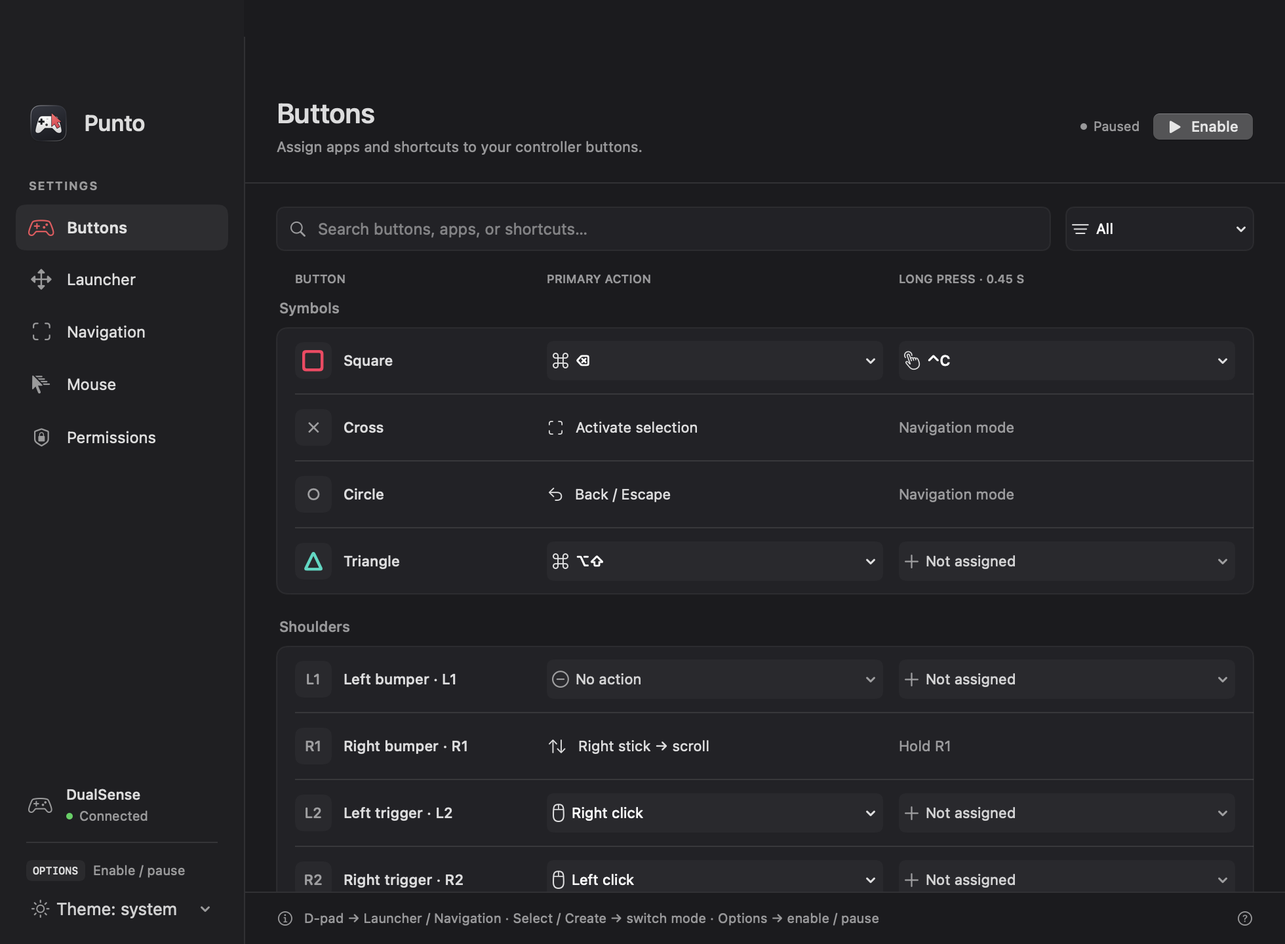
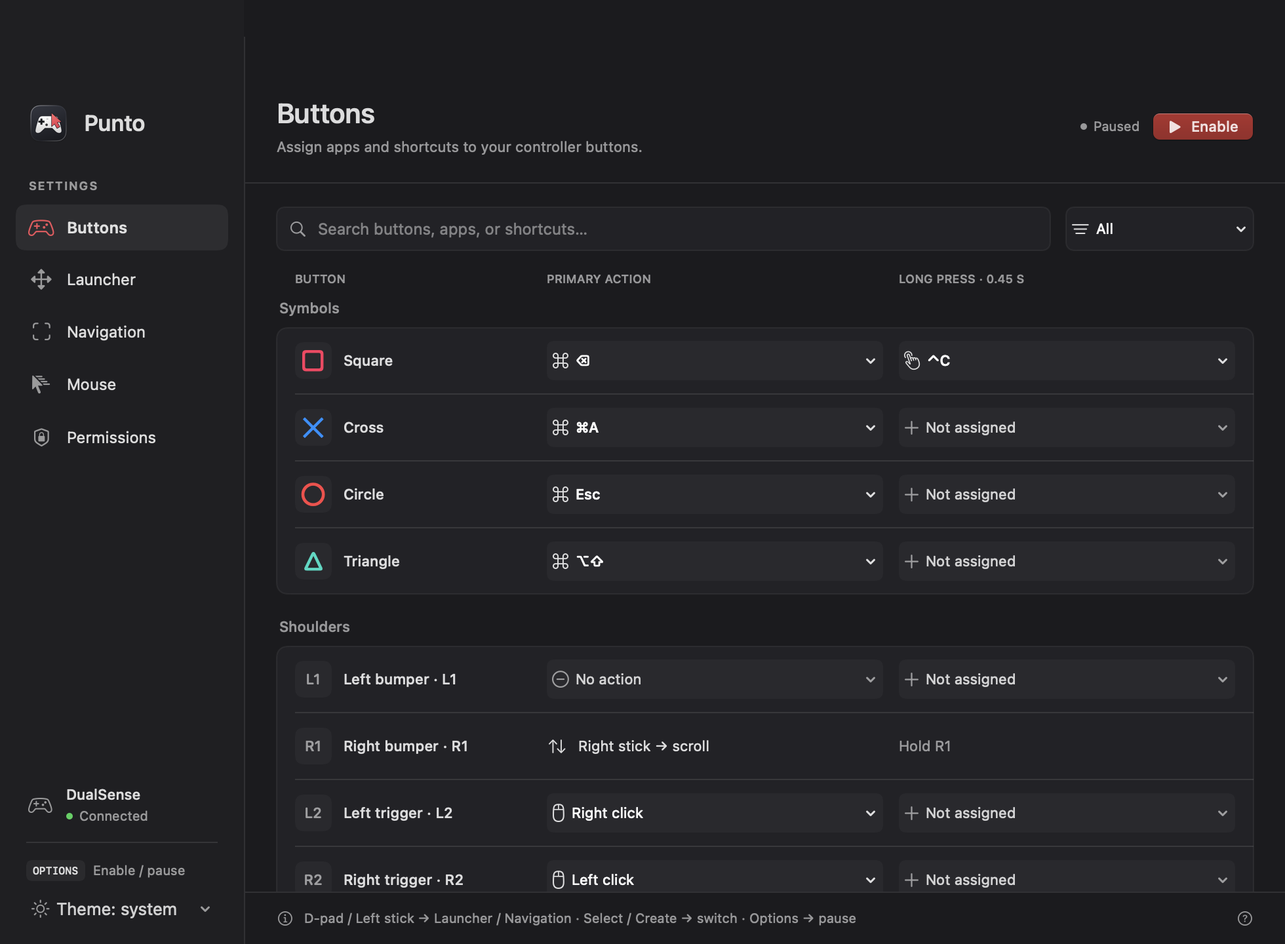
Add left-stick launcher and UI navigation with safe repeat handling

diff --git a/UI.swift b/UI.swift
@@ -25,7 +25,7 @@ private enum Page: String, CaseIterable, Identifiable {
         switch self {
         case .buttons: return "Assign apps and shortcuts to your controller buttons."
         case .launcher: return "Four directions. Two apps per direction."
-        case .navigation: return "Select app controls with the D-pad, without aiming the mouse."
+        case .navigation: return "Select app controls with the D-pad or left stick, without aiming the mouse."
         case .mouse: return "Customize cursor movement and scrolling."
         case .permissions: return "Manage Punto’s access to your Mac."
         }
@@ -322,7 +322,7 @@ private struct SettingsView: View {
             Divider()
             HStack(spacing: 8) {
                 Image(systemName: "info.circle").foregroundColor(.secondary)
-                Text("D-pad → Launcher / Navigation · Select / Create → switch mode · Options → enable / pause")
+                Text("D-pad / Left stick → Launcher / Navigation · Select / Create → switch · Options → pause")
                     .font(.system(size: 10)).foregroundColor(.secondary)
                 Spacer(minLength: 0)
                 Button { showHelp.toggle() } label: { Image(systemName: "questionmark.circle").foregroundColor(.secondary) }.buttonStyle(.plain)
@@ -402,7 +402,7 @@ private struct SettingsView: View {
     }
     private var launcherSettings: some View {
         VStack(alignment: .leading, spacing: 20) {
-            heading("Directional navigation", detail: "Press a direction to open an app. Press it again while the overlay is visible to open the second.")
+            heading("Directional navigation", detail: "Use the D-pad or left stick to open an app. Repeat the same direction while the overlay is visible to open the second.")
             HStack(spacing: 18) {
                 Label("Instant launch · no confirmation", systemImage: "bolt.fill")
                 Label("○ dismisses the overlay", systemImage: "xmark.circle")
@@ -441,7 +441,7 @@ private struct SettingsView: View {
     }
     private var navigationSettings: some View {
         VStack(alignment: .leading, spacing: 16) {
-            heading("D-pad behavior", detail: "Press Select / Create to switch modes while controller input is enabled.")
+            heading("Directional controls", detail: "Press Select / Create to switch modes while controller input is enabled.")
             VStack(alignment: .leading, spacing: 12) {
                 Picker("Mode", selection: Binding(get: { model.uiNavigationEnabled }, set: { model.controller.setUINavigationEnabled($0); model.refresh() })) {
                     Text("App launcher").tag(false)
@@ -452,12 +452,14 @@ private struct SettingsView: View {
             }.padding(16).card()
             heading("Navigate the active window", detail: "Uses macOS Accessibility. No cursor movement or coordinate clicks.")
             VStack(alignment: .leading, spacing: 14) {
-                instruction("arrow.up.and.down.and.arrow.left.and.right", title: "D-pad selects controls", detail: "The first press selects the focused or first available control. Further presses select the nearest control in that direction. A coral border shows your selection.")
+                instruction("arrow.up.and.down.and.arrow.left.and.right", title: "D-pad or left stick selects controls", detail: "Press a direction or tilt the left stick to select a control. Hold the stick to keep moving through controls. A coral border shows your selection.")
                 Divider()
                 instruction("xmark.circle", title: "✕ activates the selection", detail: "Press a button, select a tab, or focus an editable field using its native Accessibility action.")
                 Divider()
                 instruction("arrow.uturn.backward", title: "○ goes back", detail: "Requests the native Cancel action, or sends Escape if the app does not support it.")
             }.padding(16).card()
+            Text("Left stick: tilt beyond 55% to navigate; return near the center to reset. UI navigation repeats after 0.38 seconds, then every 0.18 seconds. The launcher opens only once per tilt. L3 remains customizable; the right stick still controls the mouse.")
+                .font(.system(size: 11)).foregroundColor(.secondary)
             heading("Compatibility", detail: "Experimental: apps must expose their controls through Accessibility.")
             Text("Only visible, enabled controls in the active window, sheet, or focused menu are considered. Custom canvases and some web content may not expose enough information. The right stick, touchpad, and triggers remain available as a mouse fallback. Text entry and detailed slider editing still require the keyboard or mouse.")
                 .font(.system(size: 12)).foregroundColor(.secondary)

diff --git a/tests/navigation-ui.m b/tests/navigation-ui.m
@@ -11,6 +11,7 @@
 @end
 @implementation NavigationSpy
 - (void)move:(NSInteger)direction {self.moves++;self.direction=direction;}
+- (void)moveFromStick:(NSInteger)direction {[self move:direction];}
 - (void)activateSelection {self.activations++;}
 - (void)goBack {self.backs++;}
 @end
@@ -31,20 +32,29 @@ int main(void){@autoreleasepool{
     [app setUINavigationEnabled:YES];
     for(int i=0;i<4;i++){[app handleButton:15+i pressed:YES];assert(spy.direction==i);[app handleButton:15+i pressed:NO];}
     assert(spy.moves==4&&!app.launcherPanel.isVisible&&!app.launchedPath);
+    for(int i=0;i<4;i++){[app navigateStickDirection:i];assert(spy.direction==i);}
+    assert(spy.moves==8&&!app.launchedPath);
     [app handleButton:1 pressed:YES];[app handleButton:1 pressed:NO];assert(spy.activations==1);
     [app handleButton:2 pressed:YES];[app handleButton:2 pressed:NO];assert(spy.backs==1&&!app.launchedPath);
     [app handleButton:5 pressed:YES];assert(input_scroll_active());[app handleButton:5 pressed:NO];
     [app handleButton:8 pressed:YES];assert(!app.navigationMode&&!input_scroll_active());
     [app handleButton:8 pressed:NO];assert(!app.navigationMode);
     [app handleButton:1 pressed:YES];assert([app.launchedPath isEqual:@"cross-app"]);
-    [app handleButton:15 pressed:YES];assert(app.launcherPanel.isVisible&&[app.launchedPath isEqual:@"demo-app"]);
+    [app navigateStickDirection:0];assert(app.launcherPanel.isVisible&&[app.launchedPath isEqual:@"demo-app"]);
     [app handleButton:8 pressed:YES];assert(app.navigationMode&&!app.launcherPanel.isVisible);
     assert([defaults integerForKey:@"action8"]==11&&[[defaults stringForKey:@"app8"] isEqual:@"old-select-app"]);
     assert(![app validButton:8]&&[app validButton:13]);
     [app handleButton:13 pressed:YES];assert([app.launchedPath isEqual:@"touchpad-app"]&&app.navigationMode);
     input_enable(false);assert(!spy.active);
+    [app navigateStickDirection:0];assert(spy.moves==8);
+    // Coalesce analog repeats without discarding digital presses or activation.
+    PuntoUINavigation *queueTest=[PuntoUINavigation new];queueTest.active=YES;[queueTest setValue:@YES forKey:@"busy"];
+    NSMutableArray<NSNumber *> *commands=[queueTest valueForKey:@"commands"];[commands addObjectsFromArray:@[@0,@4]];
+    [queueTest moveFromStick:1];[queueTest moveFromStick:2];assert(commands.count==3&&commands.lastObject.intValue==12);
+    [queueTest stopStickNavigation];assert(([commands isEqual:@[@0,@4]]));
+    queueTest.active=NO;assert(commands.count==0);
     assert([[app settingsSnapshot][@"uiNavigation"] boolValue]);
     input_stop();input_button_handler(NULL);currentApp=nil;
     [defaults setVolatileDomain:original?:@{} forName:NSArgumentDomain];
-    puts("PASS: four-direction routing, activation/back, no shortcut leakage, Select/Create mode switching and customizable touchpad, launcher restoration, pause and preserved assignments");
+    puts("PASS: D-pad/left-stick routing, repeat coalescing, activation/back, no shortcut leakage, Select/Create mode switching and customizable touchpad, launcher restoration, pause and preserved assignments");
 }return 0;}

diff --git a/main.m b/main.m
@@ -8,11 +8,13 @@
 #import "longpress.h"
 #import "launcher.h"
 #import "UINavigation.h"
+#import "stick.h"
 #import "UIController.h"
 #import "build/PadMacUI-Swift.h"
 
 @interface App : NSObject <NSApplicationDelegate,NSWindowDelegate,PadMacUIController> {
     LauncherState _launcher;
+    StickNavigation _leftStick;
 }
 @property PuntoUINavigation *uiNavigation;
 @property BOOL navigationMode;
@@ -42,7 +44,7 @@ static void hold_event(int index,HoldEvent event){[currentApp holdEvent:index ev
     (void)note;currentApp=self;
     NSUserDefaults *d=NSUserDefaults.standardUserDefaults;PadMacMigrateShortcuts(d);
     [d registerDefaults:@{@"speed":@1100,@"zone":@0.12,@"scrollSpeed":@900}];
-    launcher_reset(&_launcher);
+    launcher_reset(&_launcher);stick_navigation_reset(&_leftStick);
     self.navigationMode=[d boolForKey:@"uiNavigation"];
     self.uiNavigation=[PuntoUINavigation new];
     __weak App *weakSelf=self;
@@ -142,6 +144,11 @@ static void hold_event(int index,HoldEvent event){[currentApp holdEvent:index ev
     if(![self validButton:index])return;input_enable(false);
     [NSUserDefaults.standardUserDefaults removeObjectForKey:[self holdKey:index]];
 }
+- (void)navigateStickDirection:(NSInteger)direction {
+    if(direction<0||direction>3||!input_enabled())return;
+    if(self.navigationMode)[self.uiNavigation moveFromStick:direction];
+    else [self selectLauncherDirection:direction];
+}
 - (void)saveNavigationMode {[NSUserDefaults.standardUserDefaults setBool:self.navigationMode forKey:@"uiNavigation"];}
 - (void)setUINavigationEnabled:(BOOL)enabled {
     input_release_actions();[self hideLauncher];
@@ -149,7 +156,7 @@ static void hold_event(int index,HoldEvent event){[currentApp holdEvent:index ev
     self.uiNavigation.active=enabled&&input_enabled()&&AXIsProcessTrusted();
 }
 - (BOOL)handleButton:(int)index pressed:(BOOL)pressed {
-    if(index<0){longpress_cancel(hold_event);[self hideLauncher];self.uiNavigation.active=NO;return YES;}
+    if(index<0){longpress_cancel(hold_event);[self hideLauncher];self.uiNavigation.active=NO;stick_navigation_reset(&_leftStick);return YES;}
     if(index==8){if(pressed)[self setUINavigationEnabled:!self.navigationMode];return YES;}
     if(self.navigationMode&&(index>=15||index==1||index==2)){
         self.uiNavigation.active=input_enabled()&&AXIsProcessTrusted();
@@ -254,6 +261,13 @@ static void hold_event(int index,HoldEvent event){[currentApp holdEvent:index ev
     input_tick(dt,self.speed,self.deadzone);
     self.uiNavigation.active=self.navigationMode&&input_enabled()&&trusted;
     [self.uiNavigation poll];
+    if(input_enabled()){
+        double horizontal=0,vertical=0;input_left_stick(&horizontal,&vertical);
+        int previous=_leftStick.direction;
+        int direction=stick_navigation_step(&_leftStick,horizontal,vertical,now,self.navigationMode);
+        if(previous>=0&&_leftStick.direction<0)[self.uiNavigation stopStickNavigation];
+        if(direction>=0)[self navigateStickDirection:direction];
+    }else stick_navigation_reset(&_leftStick);
 }
 - (void)toggleControl {
     if(input_enabled()){input_enable(false);return;}

diff --git a/input.c b/input.c
@@ -6,7 +6,7 @@
 
 static IOHIDManagerRef manager;
 static IOHIDDeviceRef active;
-static double x, y;
+static double x,y,leftX,leftY;
 static uint8_t reportBuffer[512];
 static bool touching;
 static int touchX, touchY, touchID;
@@ -48,7 +48,7 @@ void input_release_actions(void) {
     held[0]=held[1]=false;touching=false;
 }
 void input_enable(bool on) {
-    input_release_actions();pointerSuppressed=false;enabled=on;x=y=0;
+    input_release_actions();pointerSuppressed=false;enabled=on;x=y=leftX=leftY=0;
 }
 void input_mapping(int i,int key,unsigned long long mods) {if(i>=0&&i<4){keys[i]=key;flags[i]=mods;}}
 void input_modifier_shortcut(unsigned long long modifiers){
@@ -107,11 +107,14 @@ static void value(void *ctx,IOReturn result,void *sender,IOHIDValueRef v) {
         button(17,direction==3||direction==4||direction==5); // Down
         button(18,direction==5||direction==6||direction==7); // Left
     }
-    if(page==kHIDPage_GenericDesktop && (usage==kHIDUsage_GD_Z||usage==kHIDUsage_GD_Rz)){
+    if(page==kHIDPage_GenericDesktop && (usage==kHIDUsage_GD_X||usage==kHIDUsage_GD_Y||usage==kHIDUsage_GD_Z||usage==kHIDUsage_GD_Rz)){
         double min=IOHIDElementGetLogicalMin(e),max=IOHIDElementGetLogicalMax(e);
         if(max<=min)return;
-        double a=2.0*(n-min)/(max-min)-1;
-        if(usage==kHIDUsage_GD_Z)x=a;else y=a;
+        double a=fmax(-1,fmin(1,2.0*(n-min)/(max-min)-1));
+        if(usage==kHIDUsage_GD_X)leftX=a;
+        else if(usage==kHIDUsage_GD_Y)leftY=a;
+        else if(usage==kHIDUsage_GD_Z)x=a;
+        else y=a;
     }
 }
 // DualSense USB (0x01) and full Bluetooth (0x31) input reports.
@@ -136,7 +139,7 @@ static void report(void *ctx, IOReturn result, void *sender,
 }
 static void added(void *ctx,IOReturn result,void *sender,IOHIDDeviceRef device){
     (void)ctx;(void)sender;if(result==kIOReturnSuccess&&!active){
-        active=device;x=y=0;touching=false;
+        active=device;x=y=leftX=leftY=0;touching=false;
         IOHIDDeviceRegisterInputReportCallback(device,reportBuffer,sizeof(reportBuffer),report,device);
     }
 }
@@ -195,6 +198,10 @@ static void move_pointer(double dx,double dy){
     CGEventRef e=CGEventCreateMouseEvent(NULL,type,p,held[0]?kCGMouseButtonLeft:held[1]?kCGMouseButtonRight:kCGMouseButtonLeft);
     if(e){CGEventPost(kCGHIDEventTap,e);CFRelease(e);}
 #endif
+}
+void input_left_stick(double *horizontal,double *vertical){
+    if(horizontal)*horizontal=enabled&&active?leftX:0;
+    if(vertical)*vertical=enabled&&active?leftY:0;
 }
 bool input_connected(void){return active!=NULL;}
 bool input_enabled(void){return enabled;}

diff --git a/UINavigation.m b/UINavigation.m
@@ -87,7 +87,7 @@ static id focusedRoot(AXUIElementRef app,id *window,id *focused){
     if(atomic_exchange(&_active,active)==active)return;
     self.generation++;[self.commands removeAllObjects];[self clearSelection];
     self.status=active?@"Press a direction to select a control.":@"UI navigation is paused.";
-    if(active)[self showMessage:@"UI navigation · D-pad selects · ✕ activates · ○ goes back"];
+    if(active)[self showMessage:@"D-pad / Left stick selects · ✕ activates · ○ goes back"];
 }
 - (void)showMessage:(NSString *)message{
     NSTextField *label=[NSTextField labelWithString:message];label.frame=NSMakeRect(16,10,448,36);
@@ -101,6 +101,15 @@ static id focusedRoot(AXUIElementRef app,id *window,id *focused){
     dispatch_after(dispatch_time(DISPATCH_TIME_NOW,2500*NSEC_PER_MSEC),dispatch_get_main_queue(),^{if(version==self.messageVersion)[self.messagePanel orderOut:nil];});
 }
 - (void)move:(NSInteger)direction{if(direction>=0&&direction<4)[self enqueue:direction];}
+- (void)stopStickNavigation{
+    for(NSInteger i=(NSInteger)self.commands.count-1;i>=0;i--)if(self.commands[i].integerValue>=10)[self.commands removeObjectAtIndex:(NSUInteger)i];
+}
+- (void)moveFromStick:(NSInteger)direction{
+    if(!self.active||direction<0||direction>3)return;
+    [self stopStickNavigation];
+    if(self.busy){if(self.commands.count<8)[self.commands addObject:@(10+direction)];}
+    else [self request:direction];
+}
 - (void)activateSelection{[self enqueue:4];}
 - (void)goBack{[self enqueue:5];}
 - (void)enqueue:(NSInteger)command{
@@ -110,7 +119,7 @@ static id focusedRoot(AXUIElementRef app,id *window,id *focused){
 }
 - (void)drain{
     if(!self.active||self.busy||!self.commands.count)return;
-    NSInteger command=self.commands.firstObject.integerValue;[self.commands removeObjectAtIndex:0];[self request:command];
+    NSInteger command=self.commands.firstObject.integerValue;[self.commands removeObjectAtIndex:0];[self request:command>=10?command-10:command];
 }
 - (void)poll{
     double now=NSProcessInfo.processInfo.systemUptime;

diff --git a/tests/scroll.c b/tests/scroll.c
@@ -7,6 +7,10 @@ void input_test_scroll(int vertical,int horizontal){scrollEvents++;totalVertical
 void input_test_pointer(double dx,double dy){assert(dx!=0||dy!=0);pointerEvents++;}
 int main(void){
     active=(IOHIDDeviceRef)(uintptr_t)1;input_enable(true);
+    double horizontal=0,vertical=0;leftX=0.9;leftY=-0.8;input_left_stick(&horizontal,&vertical);
+    assert(horizontal==0.9&&vertical==-0.8&&x==0&&y==0);
+    input_suppress_pointer(true);input_left_stick(&horizontal,&vertical);assert(horizontal==0.9&&vertical==-0.8);
+    input_suppress_pointer(false);input_left_stick(NULL,NULL);
     x=0;y=1;input_scroll_mode(true);assert(input_scroll_active());
     input_tick(1.0/60,1100,0.12);
     assert(scrollEvents==1&&totalVertical==-15&&totalHorizontal==0&&pointerEvents==0);
@@ -33,9 +37,11 @@ int main(void){
     input_tick(1.0/60,1100,0.12);assert(scrollEvents==previous&&!input_scroll_active());
     input_suppress_pointer(false);input_release_actions();assert(!input_scroll_active());
     input_scroll_mode(true);input_enable(false);assert(!input_scroll_active());
+    input_left_stick(&horizontal,&vertical);assert(horizontal==0&&vertical==0&&leftX==0&&leftY==0);
     input_scroll_mode(true);assert(!input_scroll_active());
     input_enable(true);input_scroll_mode(true);removed(NULL,0,NULL,active);assert(!input_scroll_active());
+    input_left_stick(&horizontal,&vertical);assert(horizontal==0&&vertical==0);
     input_stop();
-    puts("PASS: R1 scroll mode, vertical/horizontal directions, adjustable sensitivity, bounds, smooth fractions, deadzone, cursor restore, safety reset");
+    puts("PASS: independent left-stick axes and safety reset, R1 scroll mode, vertical/horizontal directions, adjustable sensitivity, bounds, smooth fractions, deadzone, cursor restore, safety reset");
     return 0;
 }

diff --git a/tests/stick.c b/tests/stick.c
@@ -1,0 +1,30 @@
+#include "../stick.h"
+#include <assert.h>
+#include <math.h>
+#include <stdio.h>
+int main(void){
+    StickNavigation s;stick_navigation_reset(&s);
+    assert(stick_navigation_step(&s,1,0,0,true)==-1); // Must recenter after reset.
+    assert(stick_navigation_step(&s,0,0,0,true)==-1);
+    assert(stick_navigation_step(&s,0.4,0,0.1,true)==-1);
+    assert(stick_navigation_step(&s,1,0,1,true)==1);
+    assert(stick_navigation_step(&s,1,0,1.37,true)==-1);
+    assert(stick_navigation_step(&s,1,0,1.39,true)==1);
+    assert(stick_navigation_step(&s,1,0,1.5,true)==-1);
+    assert(stick_navigation_step(&s,1,0,1.58,true)==1);
+    assert(stick_navigation_step(&s,0,1,1.6,true)==2);
+    assert(stick_navigation_step(&s,0.9,1,1.7,true)==-1); // Diagonal noise keeps the current sector.
+    assert(stick_navigation_step(&s,1,0.6,1.71,true)==1);
+    assert(stick_navigation_step(&s,0,-1,1.8,true)==0);
+    assert(stick_navigation_step(&s,-1,0,1.9,true)==3);
+    assert(stick_navigation_step(&s,0.2,0,2,true)==-1);
+    assert(stick_navigation_step(&s,0,-1,2.1,false)==0);
+    assert(stick_navigation_step(&s,0,-1,3,false)==-1);
+    assert(stick_navigation_step(&s,1,0,4,false)==-1); // Launcher requires another centered tilt.
+    assert(stick_navigation_step(&s,0,0,4.1,false)==-1);
+    assert(stick_navigation_step(&s,1,0,4.2,false)==1);
+    stick_navigation_reset(&s);assert(stick_navigation_step(&s,1,0,5,true)==-1);
+    assert(stick_navigation_step(&s,NAN,0,5,true)==-1&&!s.armed);
+    assert(stick_navigation_step(&s,0,0,INFINITY,true)==-1&&!s.armed);
+    puts("PASS: left-stick directions, drift threshold, sector hysteresis, delayed/repeated steps, launcher single-shot and reset recentering");
+}

diff --git a/stick.c b/stick.c
@@ -1,0 +1,23 @@
+#include "stick.h"
+#include <math.h>
+void stick_navigation_reset(StickNavigation *state){*state=(StickNavigation){false,-1,0};}
+int stick_navigation_step(StickNavigation *state,double x,double y,double now,bool repeat){
+    if(!isfinite(x)||!isfinite(y)||!isfinite(now)){stick_navigation_reset(state);return -1;}
+    double ax=fabs(x),ay=fabs(y),magnitude=fmax(ax,ay);
+    if(magnitude<=0.30){state->armed=true;state->direction=-1;state->repeatAt=0;return -1;}
+    if(!state->armed||magnitude<0.55)return -1;
+    int direction=ax>ay?(x>0?1:3):(y>0?2:0);
+    // Keep the current sector near diagonals to avoid noisy alternating steps.
+    if(state->direction>=0){
+        bool horizontal=state->direction==1||state->direction==3;
+        bool sameSign=horizontal?(state->direction==1?x>0:x<0):(state->direction==2?y>0:y<0);
+        if(sameSign&&(horizontal?ax:ay)>=(horizontal?ay:ax)*0.8)direction=state->direction;
+    }
+    if(direction!=state->direction){
+        state->direction=direction;state->repeatAt=now+0.38;
+        if(!repeat)state->armed=false;
+        return direction;
+    }
+    if(repeat&&now>=state->repeatAt){state->repeatAt=now+0.18;return direction;}
+    return -1;
+}

diff --git a/stick.h b/stick.h
@@ -1,0 +1,8 @@
+#ifndef PUNTO_STICK_H
+#define PUNTO_STICK_H
+#include <stdbool.h>
+typedef struct { bool armed; int direction; double repeatAt; } StickNavigation;
+void stick_navigation_reset(StickNavigation *state);
+// Normalized HID axes; returns up/right/down/left (0..3), or -1.
+int stick_navigation_step(StickNavigation *state,double x,double y,double now,bool repeat);
+#endif

diff --git a/UINavigation.h b/UINavigation.h
@@ -6,6 +6,8 @@ NS_ASSUME_NONNULL_BEGIN
 @property(atomic,getter=isActive) BOOL active;
 @property(nonatomic,copy,nullable) dispatch_block_t backFallback;
 - (void)move:(NSInteger)direction;
+- (void)moveFromStick:(NSInteger)direction;
+- (void)stopStickNavigation;
 - (void)activateSelection;
 - (void)goBack;
 - (void)poll;

diff --git a/input.h b/input.h
@@ -3,6 +3,7 @@
 void input_start(void);
 void input_stop(void);
 void input_tick(double seconds, double speed, double deadzone);
+void input_left_stick(double *horizontal,double *vertical);
 void input_enable(bool enabled);
 void input_release_actions(void);
 void input_suppress_pointer(bool suppressed);

diff --git a/docs/DEVELOPMENT.md b/docs/DEVELOPMENT.md
@@ -17,6 +17,7 @@ Run commands from the project root. The build uses Apple Command Line Tools; ful
 | `longpress.c` | Tap versus long-press state machine |
 | `launcher.c` | Directional selection and two-slot cycling |
 | `navigation.c` | Geometric directional scoring, independent of Accessibility |
+| `stick.c` | Left-stick direction hysteresis, repeat timing, and recenter safety |
 | `UINavigation.m` | Asynchronous AX discovery, safe native actions, and non-activating selection overlay |
 | `ShortcutRecorder.m` | Shortcut recording and preference migration |
 | `scripts/generate-brand-icon.swift` | macOS icon generation |
@@ -107,7 +108,7 @@ Apps previously assigned to D-pad buttons are migrated into the first slot. Prev
 
 Select **Navigation → UI navigation**, or press **Select / Create** (the small button to the left of the touchpad) while controller input is enabled. Mode selection persists in `uiNavigation`; controller input still starts paused.
 
-- The D-pad selects accessible controls in the frontmost app’s focused window, modal sheet, or focused menu. The first press selects the focused control if available, otherwise the first discovered control.
+- The D-pad or left stick selects accessible controls in the frontmost app’s focused window, modal sheet, or focused menu. The first press selects the focused control if available, otherwise the first discovered control.
 - Subsequent presses rank element centers in a directional cone, favoring the same row or column. At a boundary the selection remains in place; it does not wrap.
 - Disabled, hidden, off-screen, and out-of-viewport controls are excluded when the provider supplies the necessary information.
 - **✕** invokes `AXPress`, `AXConfirm`, or `AXPick`; editable fields use the settable `AXFocused` attribute. No coordinate-click fallback is used.
@@ -117,6 +118,9 @@ Select **Navigation → UI navigation**, or press **Select / Create** (the small
 - A lighter 250 ms poll tracks the selection. Activation rescans and revalidates the element, app, and window; stale elements are rejected rather than blindly clicked. Selection is retained if the control remains visible after activation. Some providers return an error even after dispatching an action; ambiguous results are shown as “Action requested” and are never retried automatically.
 - An eight-command queue preserves rapid presses. App/window changes discard queued commands. Generation checks invalidate pending actions on pause, disconnect, permission loss, or mode changes.
 - Switching modes releases held mouse buttons/keys and cancels long presses. Existing launcher, Select/Create, ✕, and ○ assignments remain stored. Select/Create is reserved; touchpad click is customizable; ✕ and ○ regain normal assignments outside navigation mode.
+- Left-stick HID X/Y axes are independent of the right stick’s Z/Rz axes. Navigation engages at 55% deflection, recenters at 30%, and uses sector hysteresis to suppress diagonal jitter.
+- In UI navigation, the left stick repeats after 380 ms, then every 180 ms. Analog repeats are coalesced to one pending move and canceled when the stick recenters, without discarding digital presses. In the launcher, each tilt opens an app once; another tilt requires recentering.
+- Pausing, disconnecting, changing modes, and entering the launcher reset the stick state; recentering is required before a new navigation gesture. L3’s click assignment remains customizable.
 - The right stick, touchpad movement, R1 scrolling, and trigger clicks remain available as a mouse fallback.
 
 This is not universal semantic navigation: app Accessibility providers determine coverage, grouping, visibility, and action support. Custom canvases and some browser content are incomplete. Text entry, complex slider editing, virtualized lists, and automatic scrolling to off-screen controls are not implemented. No window content or discovered control labels are logged or persisted by the runtime.
@@ -147,7 +151,8 @@ make test-navigation-ui
 | `dock` | Showing the Dock icon with settings, closing, and reopening |
 | `launcher-ui` | Routing, automatic launching, dismissal, and overlay preview |
 | `navigation` | Direction scoring, row/column preference, boundaries, invalid rectangles, and multiple-display coordinates |
-| `navigation-ui` | Mode switching, activation/back routing, shortcut isolation, pause, and preserved assignments |
+| `navigation-ui` | D-pad/left-stick routing, coalesced repeats, mode switching, activation/back, shortcut isolation, pause, and preserved assignments |
+| `stick` | Four directions, thresholds, diagonal hysteresis, repeat timing, single-shot launching, and recenter safety |
 
 UI suites require a macOS graphical session. The launcher test uses isolated volatile preferences and intercepts app launches: **it does not change assignments or open demo applications**.
 
@@ -173,6 +178,8 @@ The fixture inspects and acts **only on its own window**, even if another app be
 - [ ] Automatic launcher opening, second slot, direction changes, and timeout.
 - [ ] No normal ✕/○ shortcut while the overlay is visible.
 - [ ] Select/Create switches launcher/navigation without running its saved assignment; touchpad click runs its configured action.
+- [ ] Left-stick directions, held repeat, recentering, and independent right-stick mouse control.
+- [ ] Launcher opens once per tilt and does not cycle repeatedly while held.
 - [ ] Navigation selects controls spatially and activates them in the intended target apps.
 - [ ] The border does not take focus, intercept clicks, or appear in the Dock.
 - [ ] App/window changes, pause, disconnect, and permission loss clear the selection.
